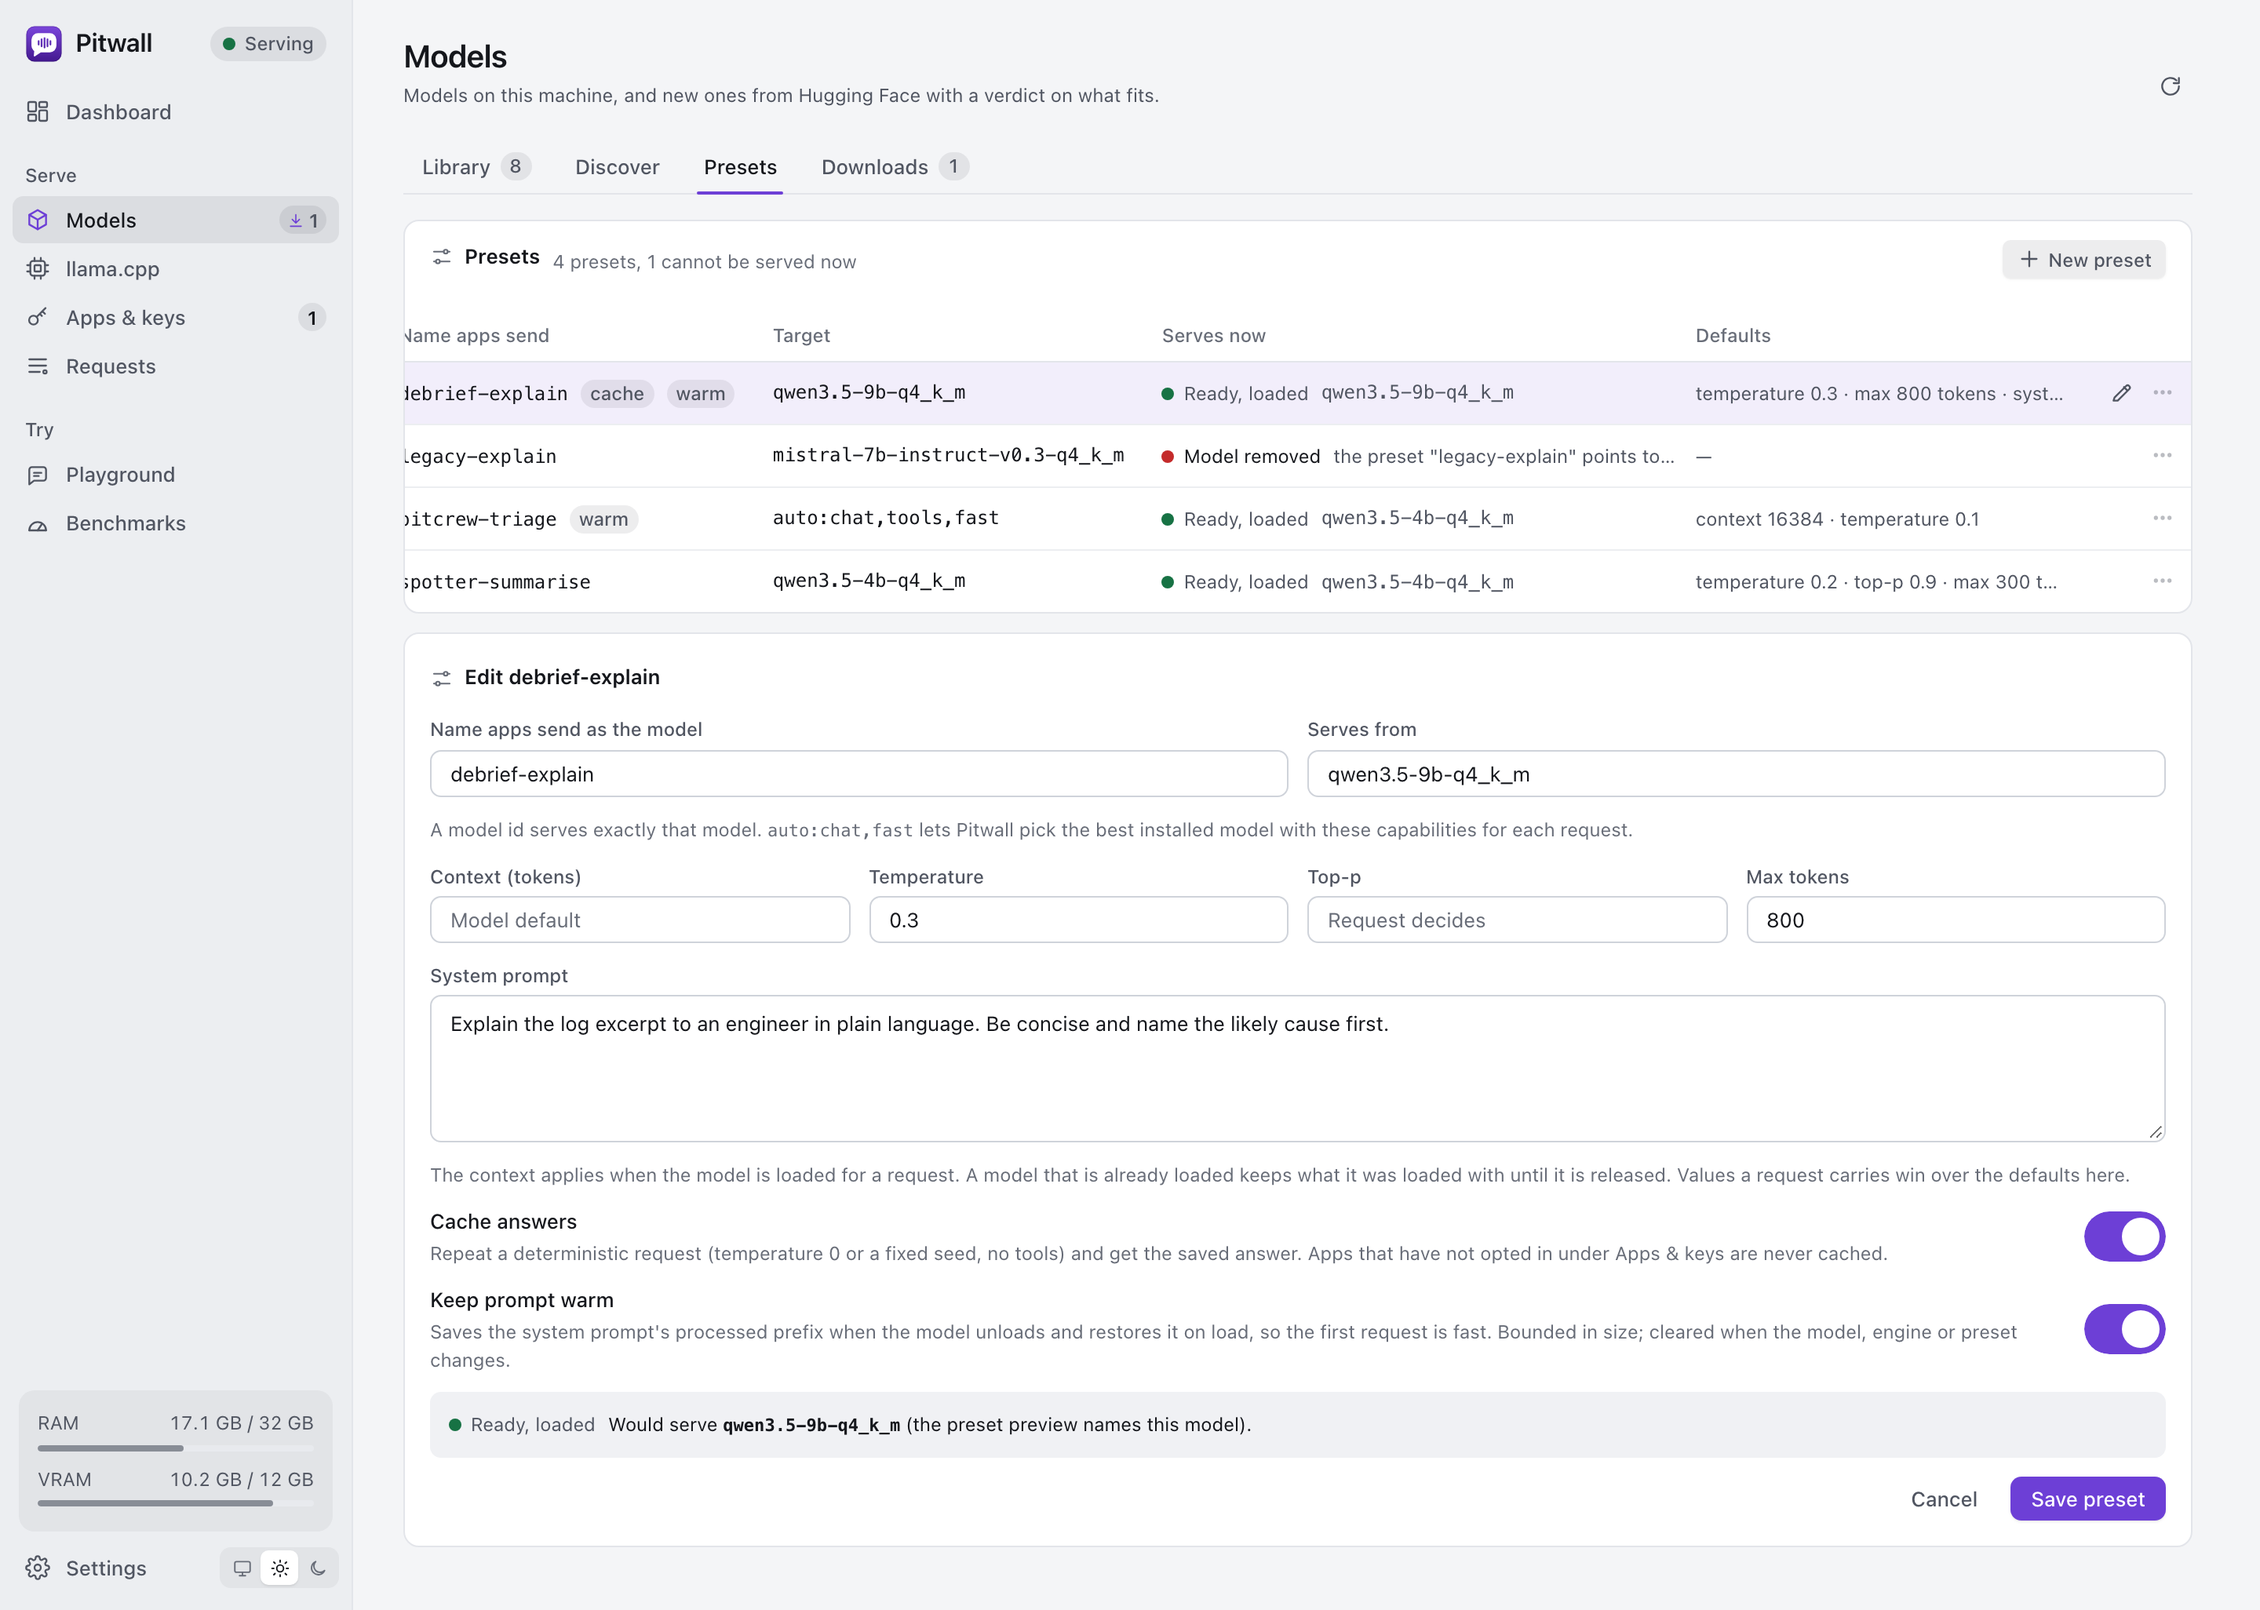
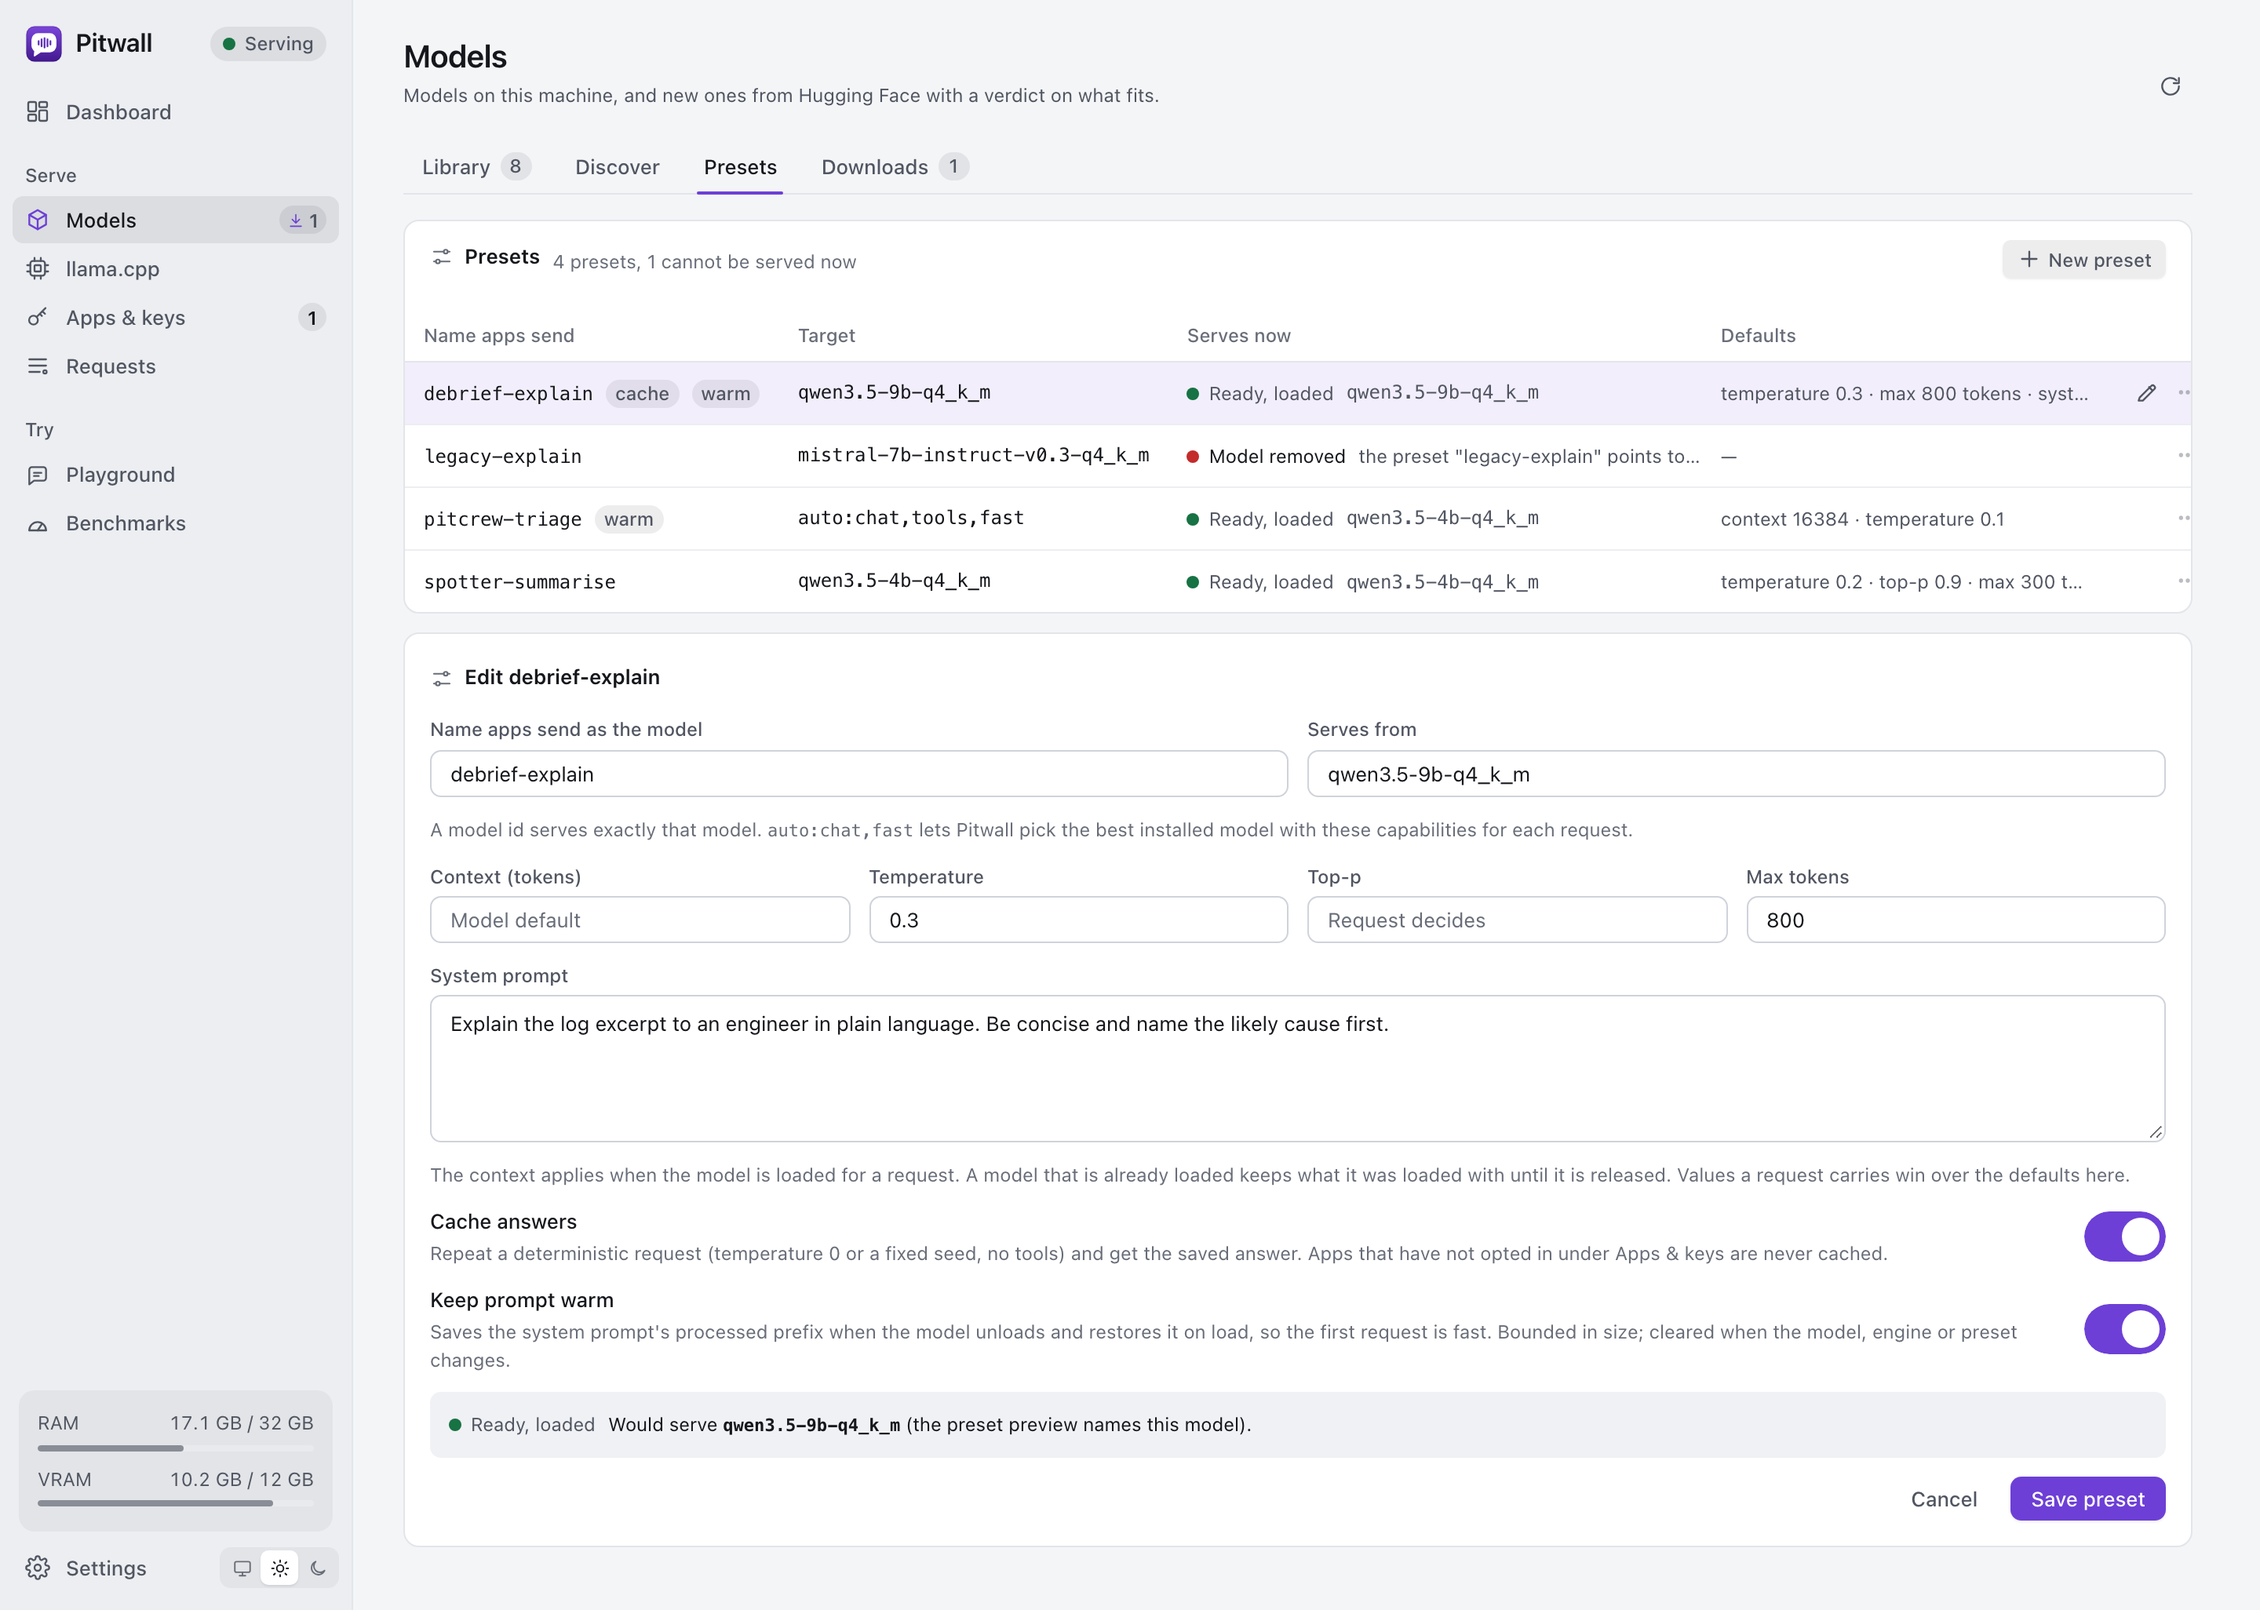
docs: re-lay out the library class diagram after the engine removals; screenshot capture resets horizontal scroll

diff --git a/apps/pitwall/app/e2e/screenshots/capture.shot.ts b/apps/pitwall/app/e2e/screenshots/capture.shot.ts
@@ -230,6 +230,8 @@ for (const theme of ['dark', 'light'] as const) {
       // No toast, tooltip or hover state in a documentation shot.
       for (const close of await page.locator('pw-toast-host button[aria-label="Dismiss"]').all()) await close.click();
       await page.mouse.move(WIDTH - 2, 2);
+      // Focusing a control at a card's edge can scroll a table sideways, which slices its first column in the shot.
+      await page.evaluate(() => document.querySelectorAll('*').forEach((e) => e.scrollLeft > 0 && (e.scrollLeft = 0)));
       await page.waitForTimeout(600);
       if (s.element) {
         // The page scrolls inside <main>: make the window tall enough to show the whole element, then shoot it.
